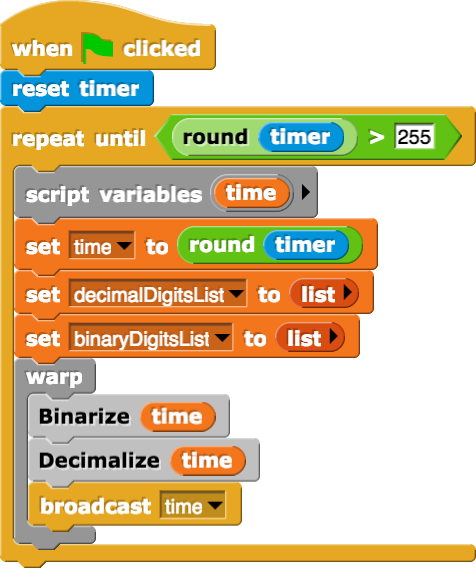
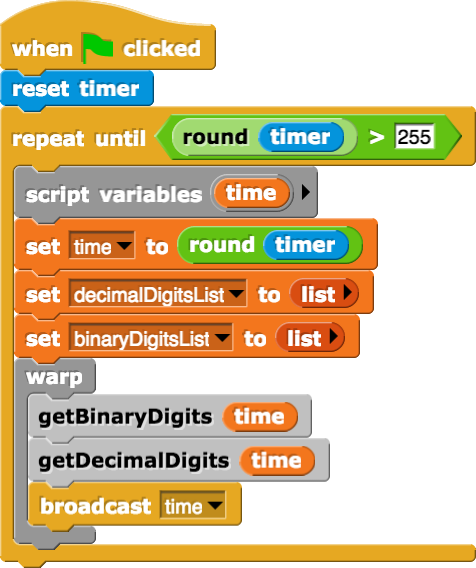
U4L1P6: Binary Counter revision

Changed region(s): [[0.0588, 0.6884, 0.7059, 0.868]]

diff --git a/cur/programming/4-internet/1-number-representation/6-binary-counter.html b/cur/programming/4-internet/1-number-representation/6-binary-counter.html
@@ -9,46 +9,56 @@
 	<body>
     
      
-	<h2>Binary Clock</h2>
+	<h2>Binary Counter</h2>
     <div class="todo">
         	Correct All the links to latest versions and Snap! in xml
         </div>
-        
+          <img class="indent" src="/bjc-r/img/4-internet/img_BinaryClock/BinaryClock.png" width="25%" alt=""/><br>
+         In this project you will create a timer that reports the number of seconds elapsed in both decimal and binary notations. <br><br>
 		<div class="forYouToDo" id="first">
-        <img class="indent" src="/bjc-r/img/4-internet/img_BinaryClock/BinaryClock.png" width="25%" alt=""/><br>
+       
 			<ol>
-            In this project you will create a timer that reports the number of seconds elapsed in both decimal and binary notations. <br><br>
-				<li>Study the Binary Clock created in Snap<em>!</em> <a href="/bjc-r/cur/programming/4-internet/1-number-representation/1-binary-counter-preview.html" target="_blank">linked here</a> until you gain some instinct how the binary system relates to the decimal system.</li>	
+           
+				<li>Study the Binary Counter created in Snap<em>!</em> <a href="/bjc-r/cur/programming/4-internet/1-number-representation/1-binary-counter-preview.html" target="_blank">linked here</a> until you gain some instinct how the binary system relates to the decimal system.</li>	
             
             
 
-  <li>Study the examples in the <a href="/bjc-r/cur/programming/4-internet/1-number-representation/binaryclock-appendix.html" target="_blank">Appendix</a>, if needed, and discuss as a class how you can convert a number in base 10 to its equivalent in base 2.  Come up with a simple algorithm for this procedure.</li>
+  <li>Review the examples in the <a href="/bjc-r/cur/programming/4-internet/1-number-representation/binarycounter-appendix.html" target="_blank">Appendix</a>, if needed, and discuss as a class how you can convert a number in base 10 to its equivalent in base 2.  Come up with a simple algorithm for this procedure.</li>
 
-<li>Study the student file <a href="http://snap.berkeley.edu/snapsource/snap.html#present:Username=selimtezel&ProjectName=BinaryClock_Student" target="_blank">linked here</a>. Note that 3 sprites representing the decimal digits, 8 sprites representing the binary digits, with all the necessary costumes (0-1 for binary 0-9 for decimal) have been created for you.  Also created is a sprite representing the “Timer”, for which you will need to fill in some code.  Snap<em>!</em>’s own “timer” block (from the “Sensing” menu) will be used as a time keeper.</li>
+<li>Examine the student file <a href="http://snap.berkeley.edu/snapsource/snap.html#present:Username=selimtezel&ProjectName=BinaryClock_Student" target="_blank">linked here</a> with which you will be working. Note that 3 sprites representing the decimal digits, 8 sprites representing the binary digits, with all the necessary costumes (0-1 for binary 0-9 for decimal) and code have been created for you.  Also created is a sprite representing the “Timer”.  This is the only sprite for which you will need to fill in some code.  Snap<em>!</em>’s own “timer” block (from the “Sensing” menu) will be used as a time keeper.</li>
 
-<li>In this project you will generate the binary number representation of decimal numbers 0 through 255.  While it takes 3 digits to represent 255 in base 10, it will require 8 digits in base 2.  Why?  </li>
+</ol>
+</div>
 
-<li>The computed decimal and binary digits are stored in lists and then a broadcast is made to the sprites representing the digits to put on the appropriate costumes (0 and 1 for the binary digits and 0 through 9 for the decimal digits)<br>
+           
+<li>In this project you will generate the binary number representation of decimal numbers 0 through 255.  While it takes 3 digits to represent 255 in base 10, it will require 8 digits in base 2.  (Why?)  </li>
+
+<li>If you look at the Timer sprite code, you will see that the computed decimal and binary digits are stored in lists and then a broadcast is made to the sprites representing the digits to put on the appropriate costumes (0 and 1 for the binary digits and 0 through 9 for the decimal digits)<br>
 
 <img class="indent" src="/bjc-r/img/4-internet/img_BinaryClock/TimerCode.png" width="30%"  alt="Timer Code" title="Timer Code"/>
 </li>
 The “warp” block is needed as all the computation must be finalized prior to a screen refresh.
- 
-<li>The code for extracting the base 10 digits of a given number X. Note that last part of the code is used to pad the front of the number with zeros.  For example, as we are allocating 3 digits to represent the numbers, the number “42” is written as “042”.<br>
-<img class="indent" src="/bjc-r/img/4-internet/img_BinaryClock/DecimalizeCode.png" width="50%"  alt="Decimalize Code" title="Decimalize Code"/>
+ <div class="forYouToDo" id="second">
+       
+			<ol start="4">
+<li>Now write the code for extracting the base 10 digits of a given number. This is done to be a model for the process in base 2. Note that last part of the code is used to pad the front of the number with zeros.  For example, as we are allocating 3 digits to represent the numbers, the number “42” is written as “042”.<br>
+<img class="indent" src="/bjc-r/img/4-internet/img_BinaryClock/getDecimalDigitsCode.png" width="50%"  alt="getDecimalDigits Code" title="getDecimalDigits Code"/>
 
 </li>
- 
-
+ </ol>
+</div>
 
 <li>Code for “dec1”, the sprite representing the first digit (hundreds) in the base 10 representation:<br>
  <img class="indent" src="/bjc-r/img/4-internet/img_BinaryClock/dec1.png" width="50%" alt="Decimal digit 1 code" title="Decimal digit 1 code"/>
  </li>
 Note “join” block ensures that the digit is interpreted as a text so that costume with that name is called. The digit is not used as a number here because Snap! will always have the “Turtle” costume as the first costume by default.<br>
 
+<div class="forYouToDo" id="third">
+       
+			<ol start="5">
 <li>Now review and understand the code for the rest of the sprites representing the decimal digits.  Check that your timer works in the decimal notation.</li>
 
-<li>Now write the code for the “Binarize” custom block and review the code for the sprites representing the 8 binary digits. Check that the timer works in the binary notation.</li>
+<li>Now write the code for the “getBinaryDigits” custom block and review the code for the sprites representing the 8 binary digits. Check that the timer works in the binary notation.</li>
 
 			</ol>
 		</div>
@@ -87,7 +97,7 @@ Input the final base: 3<br>
 29 in base 10 is 1002 in base 3.<br>
 </div>
 </li>
-<li>Rewrite the “Binarize” and “Decimalize” blocks in this project using recursion.</li>
+<li>Rewrite the “getBinaryDigits” and “getDecimalDigits” blocks in this project using recursion.</li>
 </ol>
  </div>
 
